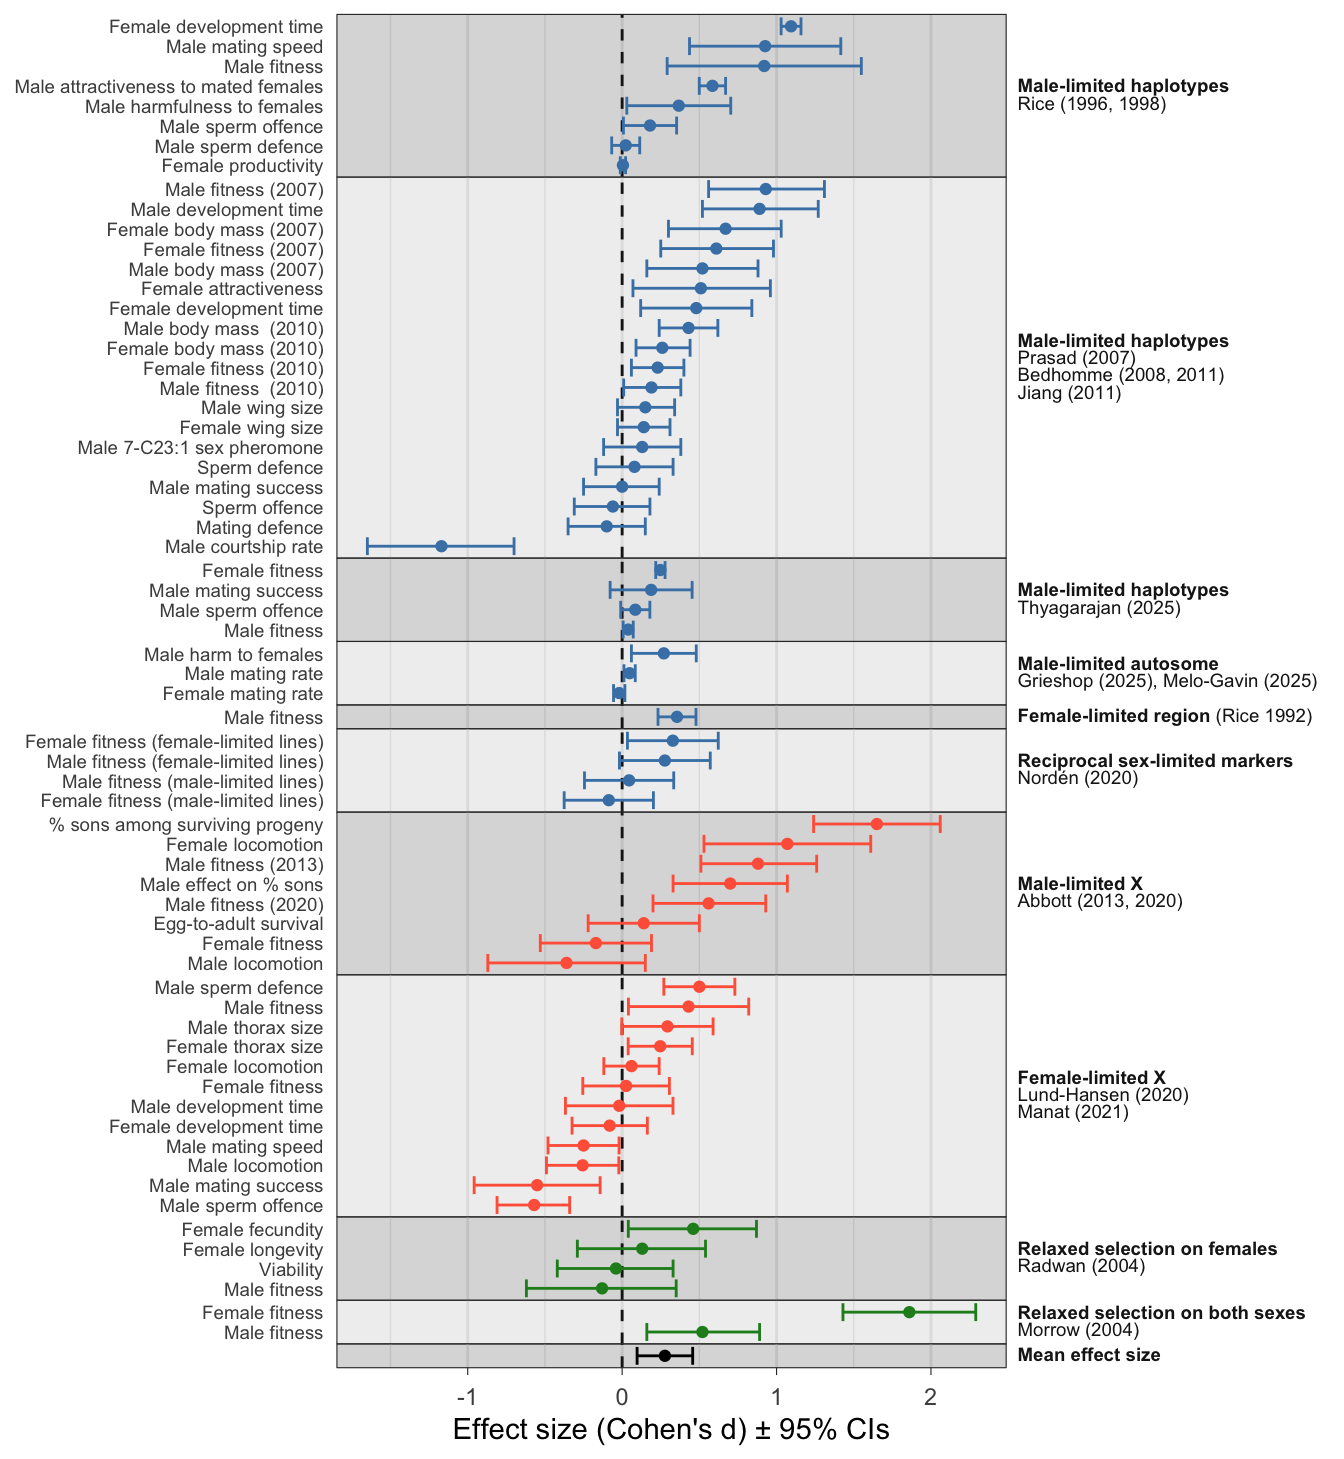
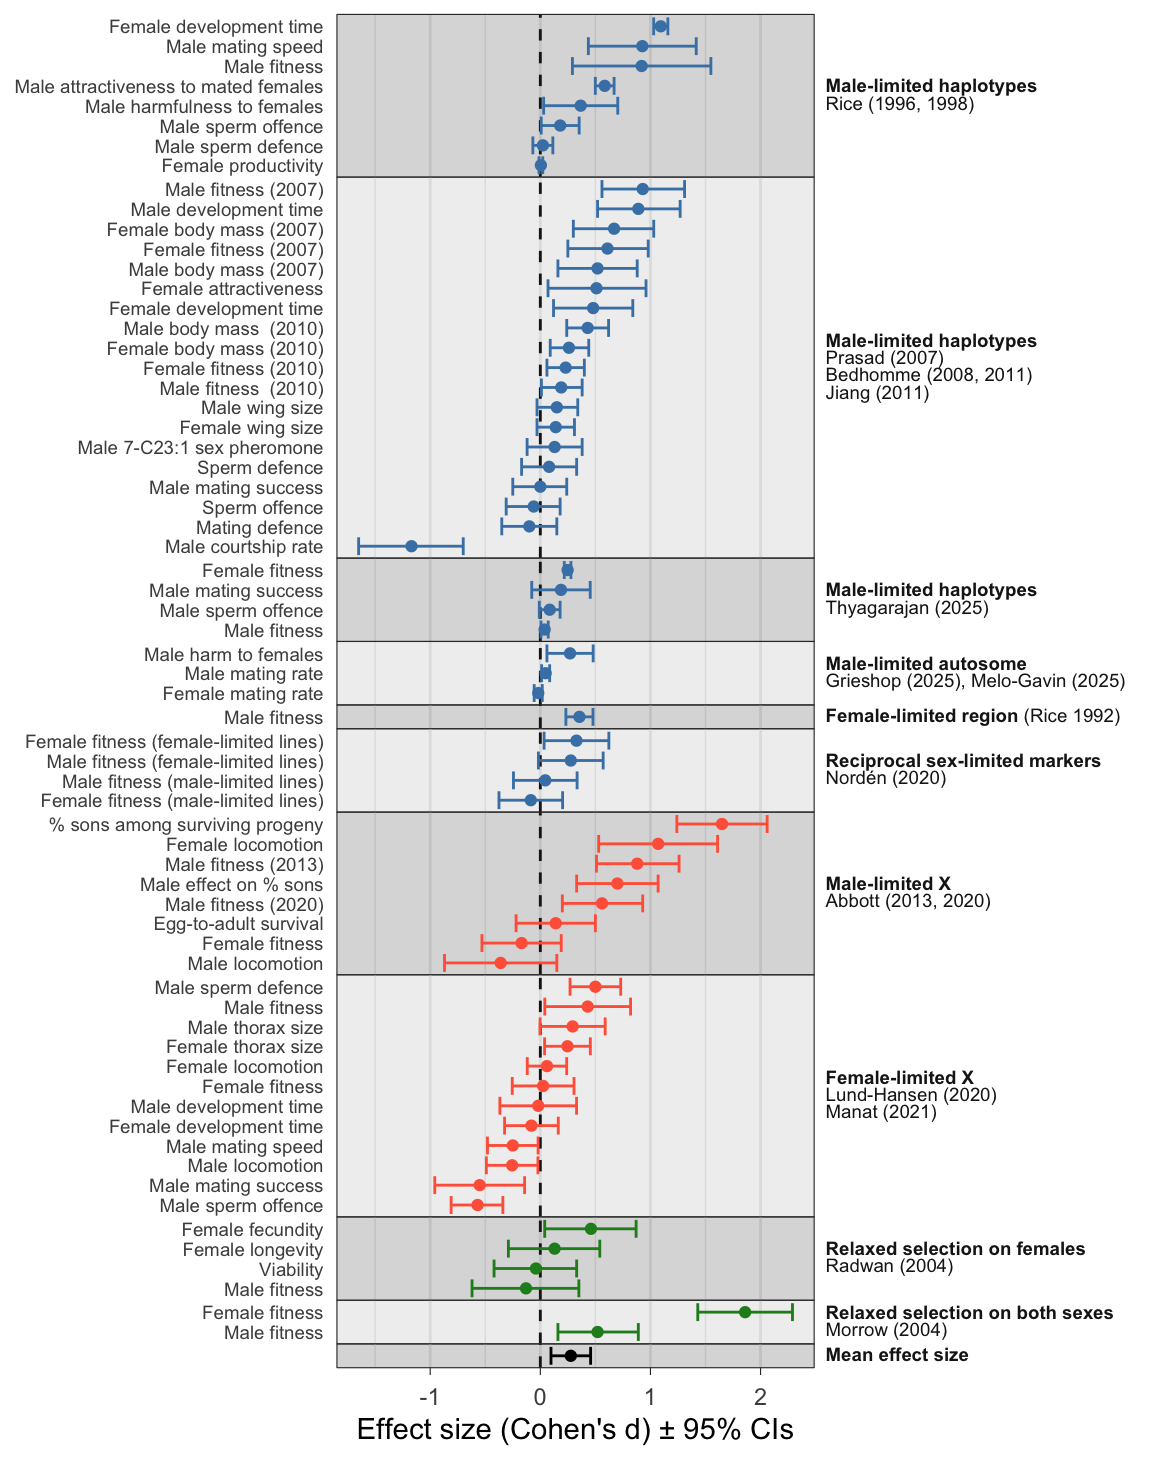
Build site.

diff --git a/docs/meta_analysis.html b/docs/meta_analysis.html
@@ -551,15 +551,15 @@ project makes it easier to run your code on other machines.</p>
 <div class="panel panel-default">
 <div class="panel-heading">
 <p class="panel-title">
-<a data-toggle="collapse" data-parent="#workflowr-checks" href="#strongRepositoryversionstrongahrefhttpsgithubcomlukeholmanexpevolmetaanalysistree1bc8273bb75eb6f3d9f3b0fb76cd95c1cfbdf5fftargetblank1bc8273a">
+<a data-toggle="collapse" data-parent="#workflowr-checks" href="#strongRepositoryversionstrongahrefhttpsgithubcomlukeholmanexpevolmetaanalysistreee2a271bc973b24826a51b90c3fdfda80d64b23bctargetblanke2a271ba">
 <span class="glyphicon glyphicon-ok text-success"
 aria-hidden="true"></span> <strong>Repository version:</strong>
-<a href="https://github.com/lukeholman/exp_evol_metaanalysis/tree/1bc8273bb75eb6f3d9f3b0fb76cd95c1cfbdf5ff" target="_blank">1bc8273</a>
+<a href="https://github.com/lukeholman/exp_evol_metaanalysis/tree/e2a271bc973b24826a51b90c3fdfda80d64b23bc" target="_blank">e2a271b</a>
 </a>
 </p>
 </div>
 <div
[2 lines of base64/hex data omitted]
 class="panel-collapse collapse">
 <div class="panel-body">
 <p>
@@ -569,7 +569,7 @@ reproducibility.
 </p>
 <p>
 The results in this page were generated with repository version
-<a href="https://github.com/lukeholman/exp_evol_metaanalysis/tree/1bc8273bb75eb6f3d9f3b0fb76cd95c1cfbdf5ff" target="_blank">1bc8273</a>.
+<a href="https://github.com/lukeholman/exp_evol_metaanalysis/tree/e2a271bc973b24826a51b90c3fdfda80d64b23bc" target="_blank">e2a271b</a>.
 See the <em>Past versions</em> tab to see a history of the changes made
 to the R Markdown and HTML files.
 </p>
@@ -670,6 +670,40 @@ Message
 </tr>
 </thead>
 <tbody>
+<tr>
+<td>
+Rmd
+</td>
+<td>
+<a href="https://github.com/lukeholman/exp_evol_metaanalysis/blob/e2a271bc973b24826a51b90c3fdfda80d64b23bc/analysis/meta_analysis.Rmd" target="_blank">e2a271b</a>
+</td>
+<td>
+luekholman
+</td>
+<td>
+2026-02-27
+</td>
+<td>
+Improve figure
+</td>
+</tr>
+<tr>
+<td>
+html
+</td>
+<td>
+<a href="https://rawcdn.githack.com/lukeholman/exp_evol_metaanalysis/c3874eb536a91122a047162e9e9223e6dae7e4a6/docs/meta_analysis.html" target="_blank">c3874eb</a>
+</td>
+<td>
+luekholman
+</td>
+<td>
+2026-02-27
+</td>
+<td>
+Build site.
+</td>
+</tr>
 <tr>
 <td>
 Rmd
@@ -1733,7 +1767,7 @@ plot_data %&gt;%
   scale_fill_manual(values = c(&quot;0&quot; = &quot;grey80&quot;, 
                                &quot;1&quot; = &quot;grey50&quot;)) +
   guides(fill = &quot;none&quot;)</code></pre>
-<p><img src="figure/meta_analysis.Rmd/unnamed-chunk-9-1.png" alt="" width="672" style="display: block; margin: auto;" /></p>
+<p><img src="figure/meta_analysis.Rmd/unnamed-chunk-9-1.png" alt="" width="576" style="display: block; margin: auto;" /></p>
 <p>
 <button type="button" class="btn btn-default btn-xs btn-workflowr btn-workflowr-fig" data-toggle="collapse" data-target="#fig-unnamed-chunk-9-1">
 Past versions of unnamed-chunk-9-1.png
@@ -1756,6 +1790,17 @@ Date
 </tr>
 </thead>
 <tbody>
+<tr>
+<td>
+<a href="https://github.com/lukeholman/exp_evol_metaanalysis/blob/c3874eb536a91122a047162e9e9223e6dae7e4a6/docs/figure/meta_analysis.Rmd/unnamed-chunk-9-1.png" target="_blank">c3874eb</a>
+</td>
+<td>
+luekholman
+</td>
+<td>
+2026-02-27
+</td>
+</tr>
 <tr>
 <td>
 <a href="https://github.com/lukeholman/exp_evol_metaanalysis/blob/4a05564ad400dfce536a6acaae8f1241dd26c690/docs/figure/meta_analysis.Rmd/unnamed-chunk-9-1.png" target="_blank">4a05564</a>
